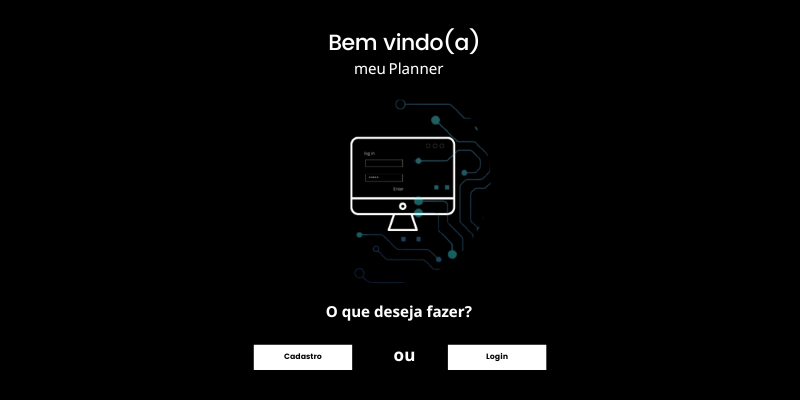
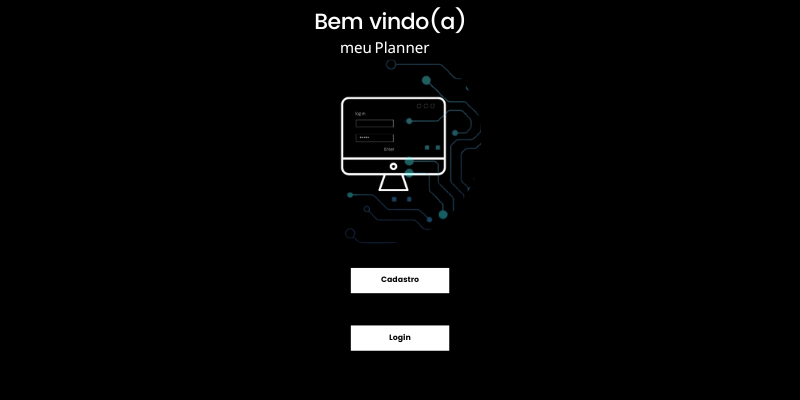
.

Changed region(s): [[0.3125, 0.03, 0.6875, 0.93]]

diff --git a/main.py b/main.py
@@ -20,10 +20,10 @@ def tela_inicio():
     lab_fundo.pack()
     # Criação de botões
     bt_login = Button(janelaInicial, bd=0, bg='white', image=img_botaologin,command=lambda: [janelaInicial.destroy(), tela_login()])
-    bt_login.place(width=100, height=30, x=448, y=345)
+    bt_login.place(width=100, height=30, x=350, y=325)
 
     bt_cadastro = Button(janelaInicial, bd=0, bg='white', image=img_botaocadastro,command=lambda: [janelaInicial.destroy(), telCadastrar()])
-    bt_cadastro.place(width=100, height=30, x=253, y=345)
+    bt_cadastro.place(width=100, height=30, x=350, y=265)
     janelaInicial.mainloop()
 
 def telCadastrar():
